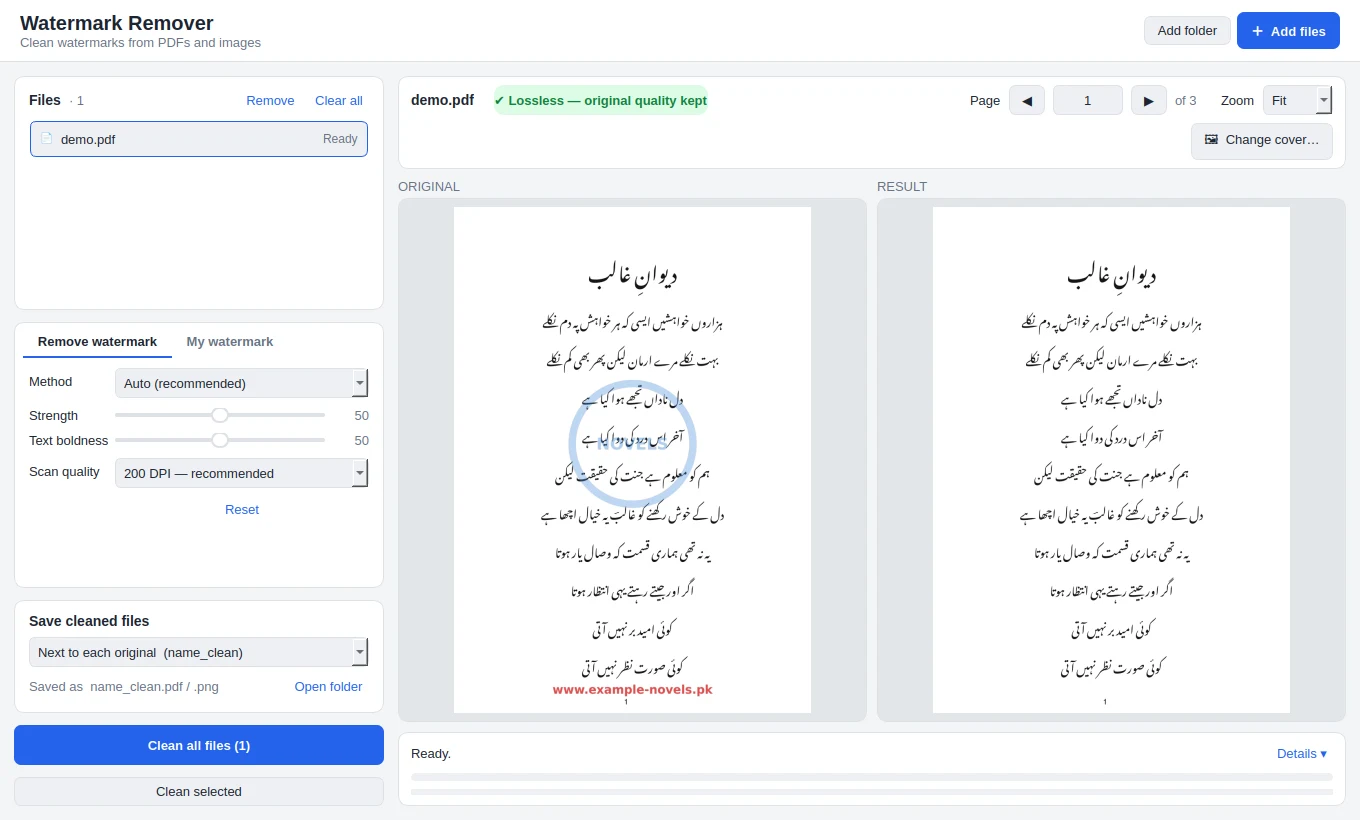
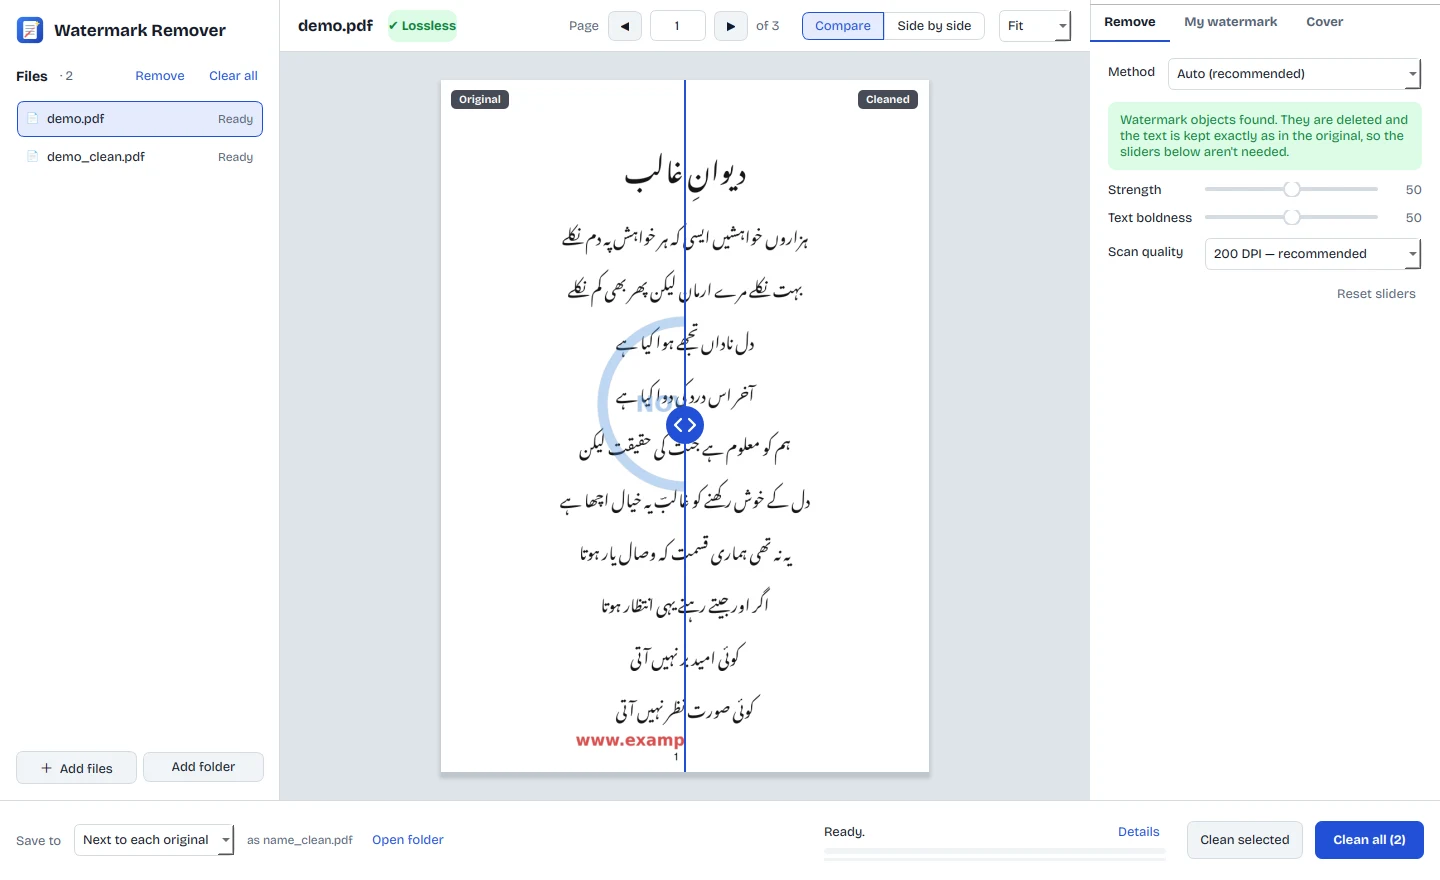
Show the redesigned app on the website

diff --git a/index.html b/index.html
@@ -206,11 +206,11 @@ footer .wrap { display: flex; flex-wrap: wrap; justify-content: space-between; g
       <ol class="steps">
         <li><h3>Add your files</h3><p>Drop in PDFs or images, or a whole folder with its subfolders.</p></li>
         <li><h3>Check the preview</h3><p>See the original and the result side by side, page by page, before saving anything.</p></li>
-        <li><h3>Clean</h3><p>Each file is saved next to the original as <em>name_clean.pdf</em>. Your originals stay as they are.</p></li>
+        <li><h3>Clean</h3><p>Each file is saved next to the original as <em>name_clean.pdf</em>, or in a folder you choose. Your originals stay as they are.</p></li>
       </ol>
       <figure class="shot">
-        <img src="img/app.webp" alt="The Watermark Remover window, with the original page on the left and the cleaned result on the right." width="1360" height="820" loading="lazy">
-        <figcaption class="small">“Lossless” means the app found the watermark as a separate object and removed only that.</figcaption>
+        <img src="img/app.webp" alt="The Watermark Remover window: files on the left, the page in the middle with a divider between the original and cleaned halves, settings on the right." width="1440" height="880" loading="lazy">
+        <figcaption class="small">Drag across the page in the app too. “Lossless” means the app found the watermark as a separate object and removed only that.</figcaption>
       </figure>
     </div>
   </section>
@@ -262,7 +262,7 @@ cd WatermarkRemover-linux-x86_64
       <h2>Questions</h2>
       <details>
         <summary>Will the text look worse after cleaning?</summary>
-        <p>Not for most PDFs. If the app shows “Lossless — original quality kept”, it only deleted the watermark objects and the text is the original. For scanned pages it rebuilds the image, and you can fine-tune the result with the Strength and Text boldness sliders.</p>
+        <p>Not for most PDFs. If the app shows “✔ Lossless” next to the file name, it only deleted the watermark objects and the text is the original. For scanned pages it rebuilds the image, and you can fine-tune the result with the Strength and Text boldness sliders.</p>
       </details>
       <details>
         <summary>Does it work with Urdu, Hindi or Arabic books?</summary>
